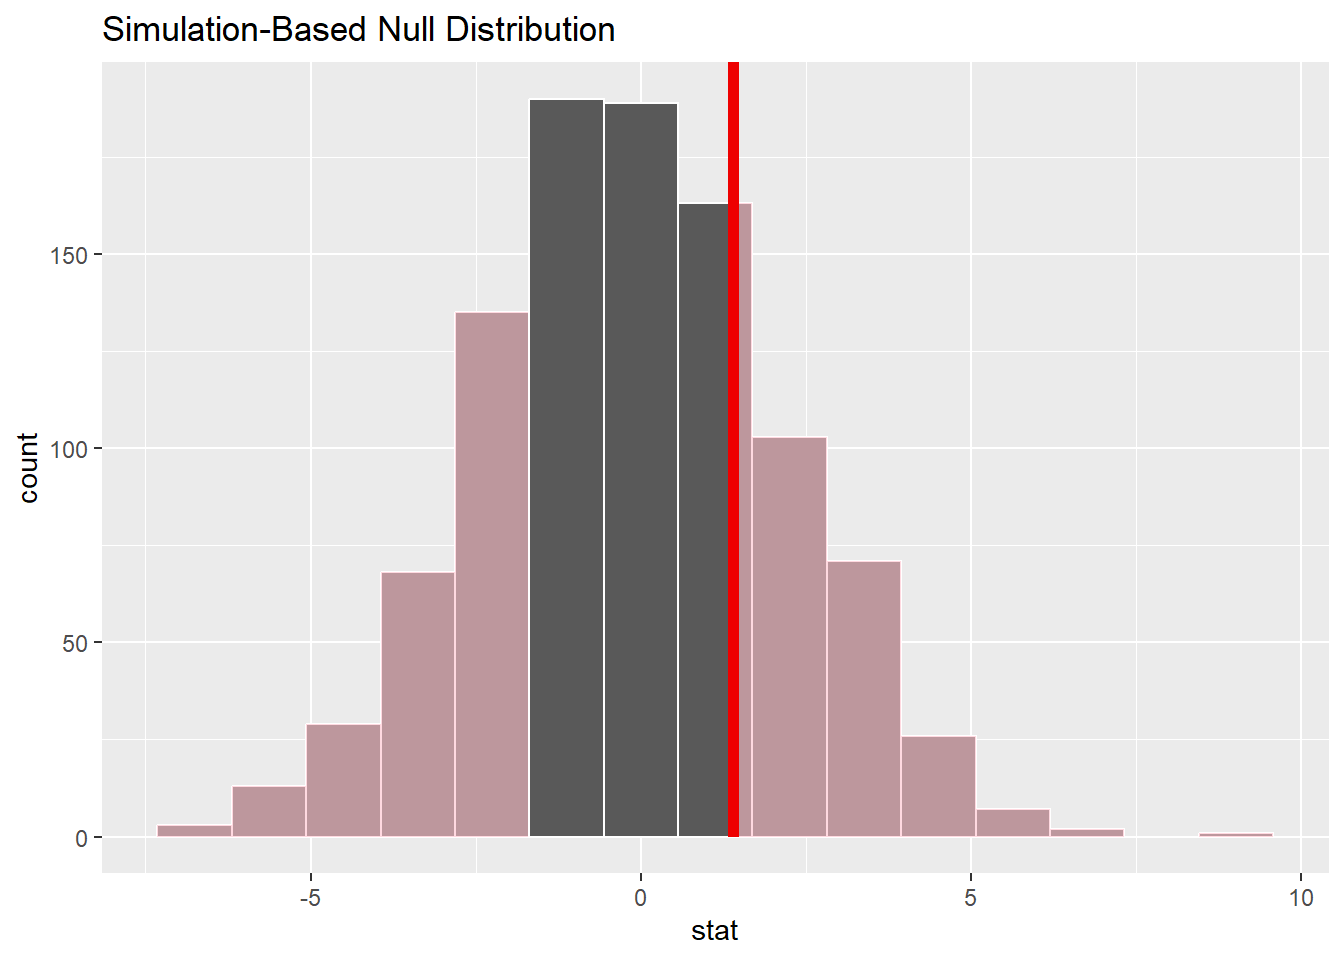
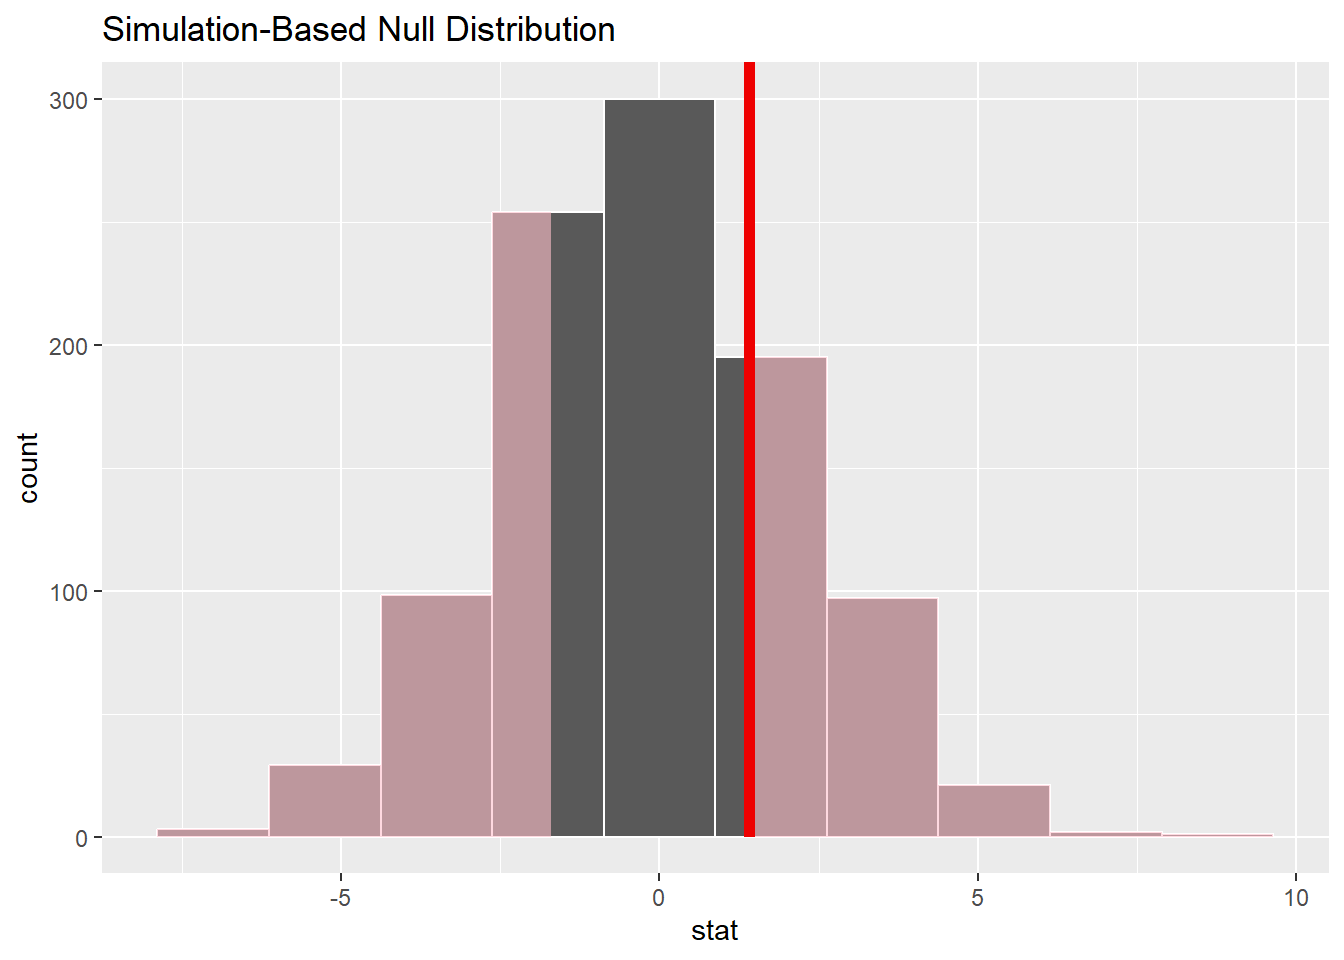
Update to Hands-on Ex1

diff --git a/_site/TM_Hands-on_Ex1/TM_Hands-on_Ex1.html b/_site/TM_Hands-on_Ex1/TM_Hands-on_Ex1.html
@@ -7,6 +7,7 @@
 <meta name="viewport" content="width=device-width, initial-scale=1.0, user-scalable=yes">
 
 <meta name="author" content="Amelia Chua">
+<meta name="dcterms.date" content="2022-12-03">
 
 <title>R4DSA_tidymodels - Hands-on Ex1 - TidyModels</title>
 <style>
@@ -181,6 +182,7 @@ code span.wa { color: #60a0b0; font-weight: bold; font-style: italic; } /* Warni
   <li><a href="#hypothesis" id="toc-hypothesis" class="nav-link" data-scroll-target="#hypothesis">Hypothesis</a></li>
   <li><a href="#generate-replicates" id="toc-generate-replicates" class="nav-link" data-scroll-target="#generate-replicates">Generate Replicates</a></li>
   <li><a href="#calculate-summary-statistics" id="toc-calculate-summary-statistics" class="nav-link" data-scroll-target="#calculate-summary-statistics">Calculate Summary Statistics</a></li>
+  <li><a href="#conclusion" id="toc-conclusion" class="nav-link" data-scroll-target="#conclusion">Conclusion</a></li>
   </ul>
 </nav>
     </div>
@@ -203,6 +205,12 @@ code span.wa { color: #60a0b0; font-weight: bold; font-style: italic; } /* Warni
           </div>
   </div>
     
+    <div>
+    <div class="quarto-title-meta-heading">Published</div>
+    <div class="quarto-title-meta-contents">
+      <p class="date">December 3, 2022</p>
+    </div>
+  </div>
     
   </div>
   
@@ -401,9 +409,10 @@ Explanatory: GENDER (factor)
 </div>
 <p>The output shows that the difference in mean is 1.40.</p>
 <div class="cell">
-<div class="sourceCode cell-code" id="cb16"><pre class="sourceCode r code-with-copy"><code class="sourceCode r"><span id="cb16-1"><a href="#cb16-1" aria-hidden="true" tabindex="-1"></a><span class="fu">visualise</span>(null_distribution_maths) <span class="sc">+</span></span>
-<span id="cb16-2"><a href="#cb16-2" aria-hidden="true" tabindex="-1"></a>  <span class="fu">shade_p_value</span>(<span class="at">obs_stat =</span> obs_diff_means,</span>
-<span id="cb16-3"><a href="#cb16-3" aria-hidden="true" tabindex="-1"></a>                <span class="at">direction =</span> <span class="st">'both'</span>)</span></code><button title="Copy to Clipboard" class="code-copy-button"><i class="bi"></i></button></pre></div>
+<div class="sourceCode cell-code" id="cb16"><pre class="sourceCode r code-with-copy"><code class="sourceCode r"><span id="cb16-1"><a href="#cb16-1" aria-hidden="true" tabindex="-1"></a><span class="fu">visualise</span>(null_distribution_maths,</span>
+<span id="cb16-2"><a href="#cb16-2" aria-hidden="true" tabindex="-1"></a>          <span class="at">bins =</span> <span class="dv">10</span>) <span class="sc">+</span></span>
+<span id="cb16-3"><a href="#cb16-3" aria-hidden="true" tabindex="-1"></a>  <span class="fu">shade_p_value</span>(<span class="at">obs_stat =</span> obs_diff_means,</span>
+<span id="cb16-4"><a href="#cb16-4" aria-hidden="true" tabindex="-1"></a>                <span class="at">direction =</span> <span class="st">'both'</span>)</span></code><button title="Copy to Clipboard" class="code-copy-button"><i class="bi"></i></button></pre></div>
 <div class="cell-output-display">
 <p><img src="TM_Hands-on_Ex1_files/figure-html/unnamed-chunk-10-1.png" class="img-fluid" width="672"></p>
 </div>
@@ -420,6 +429,10 @@ Explanatory: GENDER (factor)
 </div>
 </div>
 <p>Based on the simulation, the p-value is within the sampled data? We do not have sufficient statistical evidence to reject the null hypothesis (observed difference is not statistical significant).</p>
+</section>
+<section id="conclusion" class="level1">
+<h1>Conclusion</h1>
+<p>In this exercise, we used a simple data set to illustrate how we may use <strong>infer</strong> package for statistical inference testing.</p>
 
 
 </section>
